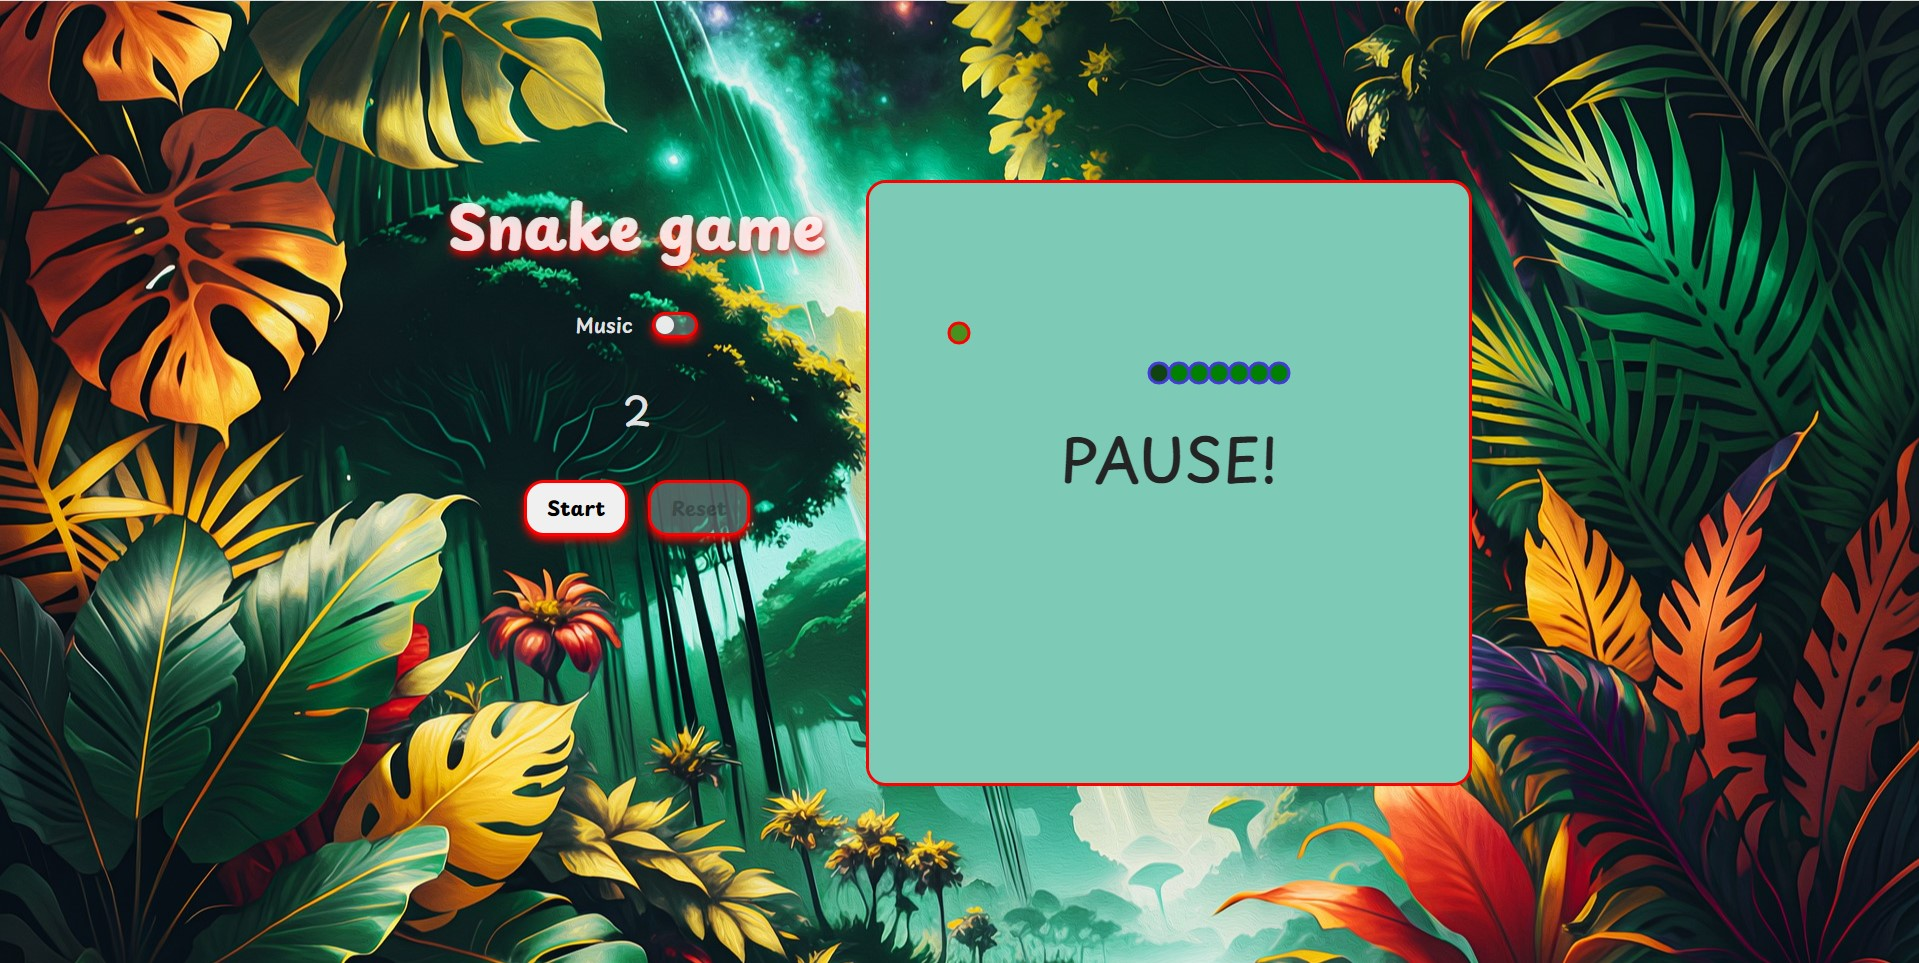
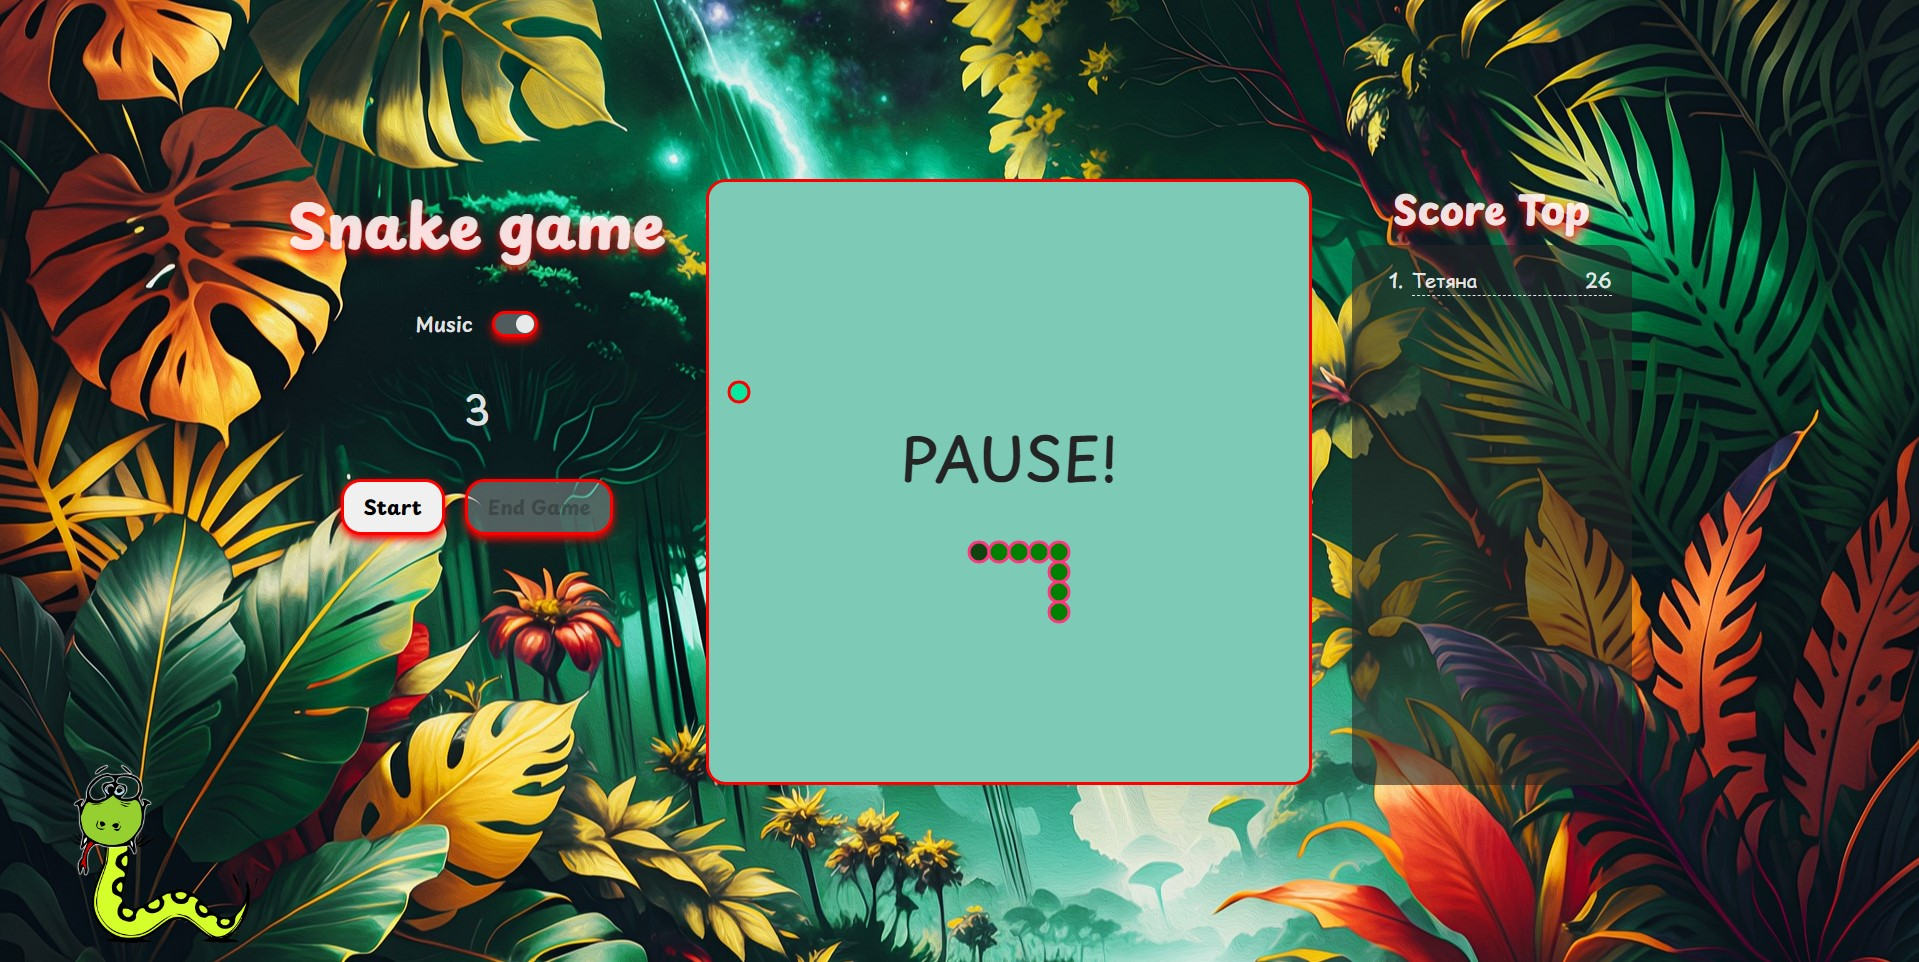
added scoreList

diff --git a/main.js b/main.js
@@ -3,9 +3,13 @@ import "./audio";
 const gameBoard = document.getElementById("gameBoard");
 const ctx = gameBoard.getContext("2d");
 const scoreText = document.getElementById("scoreText");
-const resetBtn = document.getElementById("resetButton");
+const endBtn = document.getElementById("endButton");
 const toggleBtn = document.getElementById("toggleButton");
 const toggleText = document.getElementById("toggleText");
+
+const backdrop = document.getElementById("backdrop");
+const form = document.getElementById("form");
+const formInput = document.getElementById("formInput");
 
 const gameWidth = gameBoard.width;
 const gameHeight = gameBoard.height;
@@ -45,7 +49,9 @@ const DIRECTION_DOWN = "DOWN";
 let currentDirection = DIRECTION_RIGHT;
 
 window.addEventListener("keydown", changeDirection);
-resetBtn.addEventListener("click", resetGame);
+endBtn.addEventListener("click", () =>
+  backdrop.classList.remove("visibility-hidden")
+);
 toggleBtn.addEventListener("click", startGame);
 
 function getRandomColor() {
@@ -91,7 +97,7 @@ function nextStep() {
       displayPause();
     } else {
       toggleBtn.disabled = true;
-      resetBtn.disabled = false;
+      endBtn.disabled = false;
       displayGameOver();
     }
   }
@@ -293,21 +299,75 @@ function resetGame() {
   ];
   clearBoard();
   toggleBtn.disabled = false;
-  resetBtn.disabled = true;
+  endBtn.disabled = true;
   crashSound.pause();
   crashSound.currentTime = 0;
 }
 
-const crashSound = document.getElementById("crashSound");
-const eatSound = document.getElementById("eatSound");
-
 function handleCrash() {
+  const crashSound = document.getElementById("crashSound");
+
   crashSound.play();
 }
 
 function handleEat() {
+  const eatSound = document.getElementById("eatSound");
+
   if (eatSound.paused) {
     eatSound.currentTime = 0;
     eatSound.play();
   }
 }
+
+backdrop.addEventListener("click", (event) => {
+  if (event.target === backdrop) {
+    backdrop.classList.add("visibility-hidden");
+  }
+});
+
+form.addEventListener("submit", (event) => {
+  event.preventDefault();
+
+  const playerName = formInput.value.trim();
+  let name = "Player";
+
+  if (playerName !== "") {
+    name = playerName;
+  }
+  saveScore(name, score);
+
+  updateScoreList();
+
+  backdrop.classList.add("visibility-hidden");
+
+  resetGame();
+
+  formInput.value = "";
+});
+
+function saveScore(playerName, score) {
+  const existingScores = JSON.parse(localStorage.getItem("scores")) || [];
+
+  existingScores.push({ playerName, score });
+
+  localStorage.setItem("scores", JSON.stringify(existingScores));
+}
+
+function updateScoreList() {
+  const scoreList = document.getElementById("scoreList");
+
+  const existingScores = JSON.parse(localStorage.getItem("scores")) || [];
+
+  scoreList.innerHTML = "";
+
+  const sortedPlayers = existingScores.sort((a, b) => b.score - a.score);
+
+  sortedPlayers.forEach(({ playerName, score }) => {
+    scoreList.insertAdjacentHTML(
+      "beforeend",
+      `<li><div>${playerName} <span>${score}</span></div></li>`
+    );
+  });
+}
+
+document.addEventListener("DOMContentLoaded", updateScoreList);

diff --git a/style.css b/style.css
@@ -18,10 +18,10 @@ body {
   min-width: 360px;
   height: 100vh;
   background-color: #242424;
-  background-image: url(./images/bg1.jpg);
-  background-position: center;
+  background-image: url(./images/snake-2.png), url(./images/bg1.jpg);
+  background-position: bottom 1rem left 3rem, center;
   background-repeat: no-repeat;
-  background-size: cover;
+  background-size: 200px, cover;
 }
 
 img {
@@ -41,7 +41,6 @@ ol,
 li {
   padding: 0;
   margin: 0;
-  list-style: none;
 }
 
 h1,
@@ -72,7 +71,7 @@ button {
 }
 
 .container {
-  max-width: 1280px;
+  max-width: 1440px;
   margin: 0 auto;
   padding: 1rem 2rem;
   display: flex;
@@ -167,14 +166,70 @@ button {
   border-radius: 1rem;
 }
 
-/* .game-board.paused {
-  background-image: url("/images/snake-1.png");
-  background-size: cover;
-  background-position: center;
+.score-top {
+  width: 280px;
+  display: flex;
+  flex-direction: column;
+}
+.score-title {
+  font-size: 2rem;
+  text-shadow: 0 4px 8px red;
+  text-align: center;
+  margin-bottom: auto;
+  margin-left: auto;
+  margin-right: auto;
+}
+.score-list {
+  height: 500px;
+  padding: 1rem 1rem 1rem 3rem;
+  gap: 0.5rem;
+  background-color: #24242495;
+  border-radius: 1rem;
+  overflow-y: auto;
 }
 
-.game-board.game-over {
-  background-image: url("/images/snake-2.png");
-  background-size: cover;
-  background-position: center;
-} */
+.score-list > li {
+  border-bottom: 1px dashed;
+}
+
+.score-list > li > div {
+  display: flex;
+  justify-content: space-between;
+}
+
+.backdrop {
+  position: absolute;
+  top: 0;
+  left: 0;
+  width: 100%;
+  height: 100%;
+  background-color: #24242475;
+  display: flex;
+  align-items: center;
+  justify-content: center;
+}
+
+.form {
+  padding: 2rem;
+  background-color: #24242495;
+  border: 3px solid rgba(255, 0, 0, 0.75);
+  border-radius: 1rem;
+  display: flex;
+  gap: 1rem;
+  flex-direction: column;
+  align-items: center;
+}
+
+.label {
+  display: flex;
+  gap: 1rem;
+  flex-direction: column;
+  align-items: center;
+}
+
+.input {
+  padding: 0.5rem;
+  border-radius: 1rem;
+  font-size: 1rem;
+  font-weight: 600;
+}

diff --git a/index.html b/index.html
@@ -35,12 +35,27 @@
         <button id="toggleButton" class="button">
           <div id="toggleText">Start</div>
         </button>
-        <button id="resetButton" class="button" disabled>Reset</button>
+        <button id="endButton" class="button" disabled>End Game</button>
       </div>
       <audio id="crashSound" src="audio/sound/3-egg-shaker-rolls-32718.mp3"></audio>
       <audio id="eatSound" src="audio/sound/snake-hissing-6092.mp3"></audio>
     </div>
     <canvas id="gameBoard" class="game-board" height="600" width="600"></canvas>
+    <div class="score-top">
+      <h2 class="score-title">Score Top</h2>
+      <ol id="scoreList" class="score-list"></ol>
+    </div>
+    <div id="backdrop" class="backdrop visibility-hidden">
+      <form id="form" class="form">
+        <label class="label">
+          Enter your nickname:
+          <input id="formInput" type="text" class="input" placeholder="Player" pattern="[A-Za-zА-Яа-яЁёЇїІіЄєҐґ0-9]+$"
+            title="Only letters and numbers are allowed">
+        </label>
+        <button type="submit" class="button">Save</button>
+      </form>
+    </div>
+
   </div>
 
   <script type="module" src="/main.js"></script>
